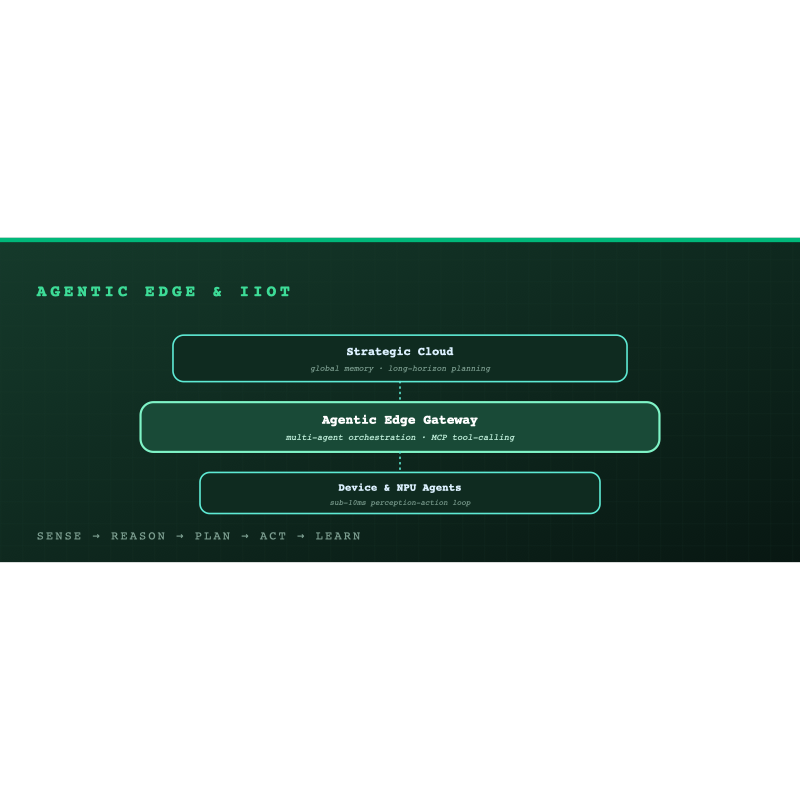
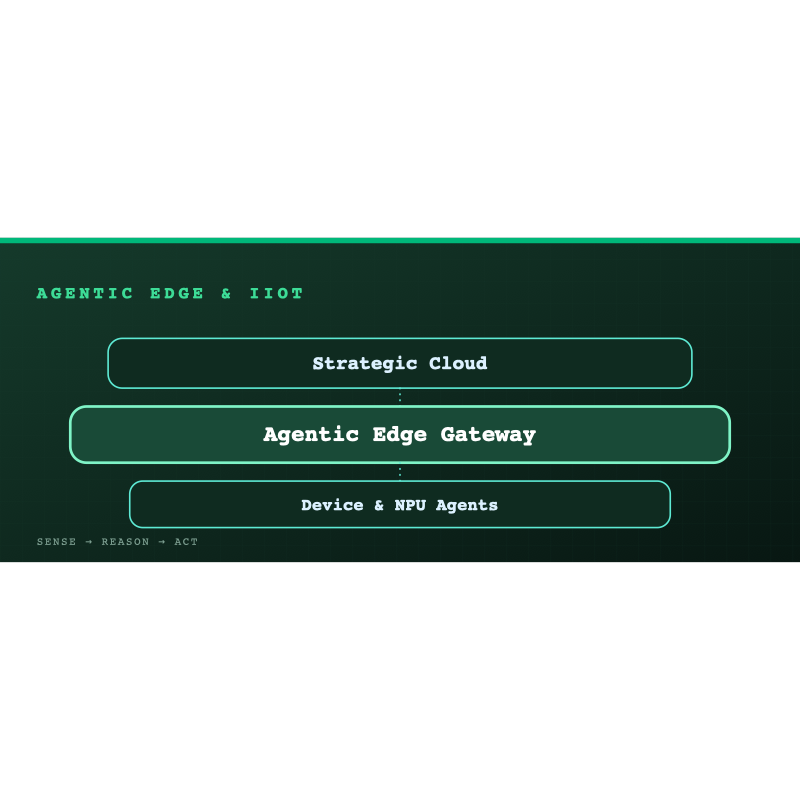
Fixes to html article

Changed region(s): [[0.0312, 0.4062, 0.9375, 0.6875], [0.0312, 0.3438, 0.375, 0.375]]

diff --git a/agentic-edge-iiot.html b/agentic-edge-iiot.html
@@ -131,7 +131,7 @@ svg.arch-diagram{width:100%;height:auto;display:block;}
 .stratum-group{cursor:pointer;}
 .stratum-card{transition:fill .2s ease,stroke .2s ease,stroke-width .2s ease;}
 .stratum-group:hover .stratum-card{stroke:var(--teal);stroke-width:2.5px;}
-.stratum-group.is-selected .stratum-card{stroke:var(--teal);stroke-width:3px;}
+.stratum-group.is-selected .stratum-card{fill:var(--teal-pale);stroke:var(--teal);stroke-width:3px;}
 .flow-line{transition:opacity .25s ease;}
 .flow-line.is-dimmed{opacity:0.12;}
 
@@ -252,20 +252,41 @@ footer{border-top:1px solid var(--gray-100);padding:40px 32px 22px;}
     <div class="diagram-viewport">
       <svg class="arch-diagram" viewBox="0 0 860 450" id="archDiagram" role="img" aria-label="Three-tier architecture: strategic cloud, agentic edge gateway, and device/NPU agents, connected by ingestion, decision, and safety data channels">
         <defs>
-          <marker id="caretUp" viewBox="0 0 10 10" refX="5" refY="5" markerWidth="8" markerHeight="8" orient="auto">
-            <path d="M 2 7 L 5 2 L 8 7" fill="none" stroke="#00b87a" stroke-width="1.6" stroke-linecap="round" stroke-linejoin="round"/>
+          <!-- Arrowhead tip points along local +x; orient="auto" then rotates it to match each path's actual direction of travel. -->
+          <marker id="caretTeal" viewBox="0 0 10 10" refX="7" refY="5" markerWidth="7" markerHeight="7" orient="auto">
+            <path d="M 2 2 L 8 5 L 2 8" fill="none" stroke="#00b87a" stroke-width="1.8" stroke-linecap="round" stroke-linejoin="round"/>
           </marker>
-          <marker id="caretDown" viewBox="0 0 10 10" refX="5" refY="5" markerWidth="8" markerHeight="8" orient="auto">
-            <path d="M 2 3 L 5 8 L 8 3" fill="none" stroke="#1a6fd4" stroke-width="1.6" stroke-linecap="round" stroke-linejoin="round"/>
+          <marker id="caretBlue" viewBox="0 0 10 10" refX="7" refY="5" markerWidth="7" markerHeight="7" orient="auto">
+            <path d="M 2 2 L 8 5 L 2 8" fill="none" stroke="#1a6fd4" stroke-width="1.8" stroke-linecap="round" stroke-linejoin="round"/>
+          </marker>
+          <marker id="caretAmber" viewBox="0 0 10 10" refX="7" refY="5" markerWidth="7" markerHeight="7" orient="auto">
+            <path d="M 2 2 L 8 5 L 2 8" fill="none" stroke="#b3691a" stroke-width="1.8" stroke-linecap="round" stroke-linejoin="round"/>
           </marker>
         </defs>
 
-        <!-- CONNECTORS -->
-        <path class="flow-line" data-flow="ingestion" d="M 320 168 L 320 128" fill="none" stroke="#00b87a" stroke-width="1.6" stroke-dasharray="1 6" stroke-linecap="round" marker-end="url(#caretUp)"/>
-        <path class="flow-line" data-flow="decision" d="M 520 124 L 520 164" fill="none" stroke="#1a6fd4" stroke-width="1.6" stroke-dasharray="1 6" stroke-linecap="round" marker-end="url(#caretDown)"/>
-        <path class="flow-line" data-flow="ingestion" d="M 320 324 L 320 284" fill="none" stroke="#00b87a" stroke-width="1.6" stroke-dasharray="1 6" stroke-linecap="round" marker-end="url(#caretUp)"/>
-        <path class="flow-line" data-flow="decision" d="M 520 280 L 520 320" fill="none" stroke="#1a6fd4" stroke-width="1.6" stroke-dasharray="1 6" stroke-linecap="round" marker-end="url(#caretDown)"/>
-        <path class="flow-line" data-flow="safety" d="M 690 220 Q 760 250 782 288" fill="none" stroke="#b3691a" stroke-width="1.6" stroke-dasharray="1 6" stroke-linecap="round" marker-end="url(#caretDown)"/>
+        <!-- CONNECTORS — each wrapped with its own traveling pulse dot (animateMotion along the same path, via <mpath>) -->
+        <g class="flow-line" data-flow="ingestion">
+          <path id="p-ing1" d="M 320 168 L 320 128" fill="none" stroke="#00b87a" stroke-width="1.6" stroke-dasharray="1 6" stroke-linecap="round" marker-end="url(#caretTeal)"/>
+          <circle r="3.5" fill="#00b87a"><animateMotion dur="1.6s" begin="0s" repeatCount="indefinite"><mpath href="#p-ing1"/></animateMotion></circle>
+          <circle r="3.5" fill="#00b87a" opacity="0.5"><animateMotion dur="1.6s" begin="0.8s" repeatCount="indefinite"><mpath href="#p-ing1"/></animateMotion></circle>
+        </g>
+        <g class="flow-line" data-flow="decision">
+          <path id="p-dec1" d="M 520 124 L 520 164" fill="none" stroke="#1a6fd4" stroke-width="1.6" stroke-dasharray="1 6" stroke-linecap="round" marker-end="url(#caretBlue)"/>
+          <circle r="3.5" fill="#1a6fd4"><animateMotion dur="1.6s" begin="0.4s" repeatCount="indefinite"><mpath href="#p-dec1"/></animateMotion></circle>
+          <circle r="3.5" fill="#1a6fd4" opacity="0.5"><animateMotion dur="1.6s" begin="1.2s" repeatCount="indefinite"><mpath href="#p-dec1"/></animateMotion></circle>
+        </g>
+        <g class="flow-line" data-flow="ingestion">
+          <path id="p-ing2" d="M 320 324 L 320 284" fill="none" stroke="#00b87a" stroke-width="1.6" stroke-dasharray="1 6" stroke-linecap="round" marker-end="url(#caretTeal)"/>
+          <circle r="3.5" fill="#00b87a"><animateMotion dur="1.3s" begin="0.2s" repeatCount="indefinite"><mpath href="#p-ing2"/></animateMotion></circle>
+        </g>
+        <g class="flow-line" data-flow="decision">
+          <path id="p-dec2" d="M 520 280 L 520 320" fill="none" stroke="#1a6fd4" stroke-width="1.6" stroke-dasharray="1 6" stroke-linecap="round" marker-end="url(#caretBlue)"/>
+          <circle r="3.5" fill="#1a6fd4"><animateMotion dur="1.3s" begin="0.6s" repeatCount="indefinite"><mpath href="#p-dec2"/></animateMotion></circle>
+        </g>
+        <g class="flow-line" data-flow="safety">
+          <path id="p-saf1" d="M 690 220 Q 760 250 782 288" fill="none" stroke="#b3691a" stroke-width="1.6" stroke-dasharray="1 6" stroke-linecap="round" marker-end="url(#caretAmber)"/>
+          <circle r="3.5" fill="#b3691a"><animateMotion dur="1.8s" begin="0s" repeatCount="indefinite"><mpath href="#p-saf1"/></animateMotion></circle>
+        </g>
 
         <!-- PILL LABELS -->
         <g class="flow-line" data-flow="ingestion">
@@ -298,8 +319,8 @@ footer{border-top:1px solid var(--gray-100);padding:40px 32px 22px;}
         </g>
 
         <!-- STRATUM 2: EDGE GATEWAY -->
-        <g class="stratum-group is-selected" data-layer="edge">
-          <rect class="stratum-card" x="150" y="168" width="560" height="112" rx="32" fill="var(--teal-pale)" stroke="var(--teal)" stroke-width="2.5"/>
+        <g class="stratum-group" data-layer="edge">
+          <rect class="stratum-card" x="150" y="168" width="560" height="112" rx="32" fill="var(--gray-50)" stroke="var(--gray-200)" stroke-width="1.5"/>
           <text x="430" y="204" text-anchor="middle" font-family="DM Sans, sans-serif" font-size="17" font-weight="700" fill="var(--ink)">Agentic Edge Gateway</text>
           <text x="430" y="226" text-anchor="middle" font-family="JetBrains Mono, monospace" font-size="13" font-style="italic" fill="var(--teal-dark)">multi-agent orchestration &amp; context engine</text>
           <text x="430" y="244" text-anchor="middle" font-family="JetBrains Mono, monospace" font-size="13" font-style="italic" fill="var(--teal-dark)">MCP tool-calling to plant systems</text>
@@ -535,6 +556,7 @@ function selectLayer(layer){
 document.querySelectorAll('.stratum-group').forEach(function(g){
   g.addEventListener('click', function(){ selectLayer(g.dataset.layer); });
 });
+selectLayer('edge');
 
 document.querySelectorAll('.filter-chip').forEach(function(btn){
   btn.addEventListener('click', function(){
